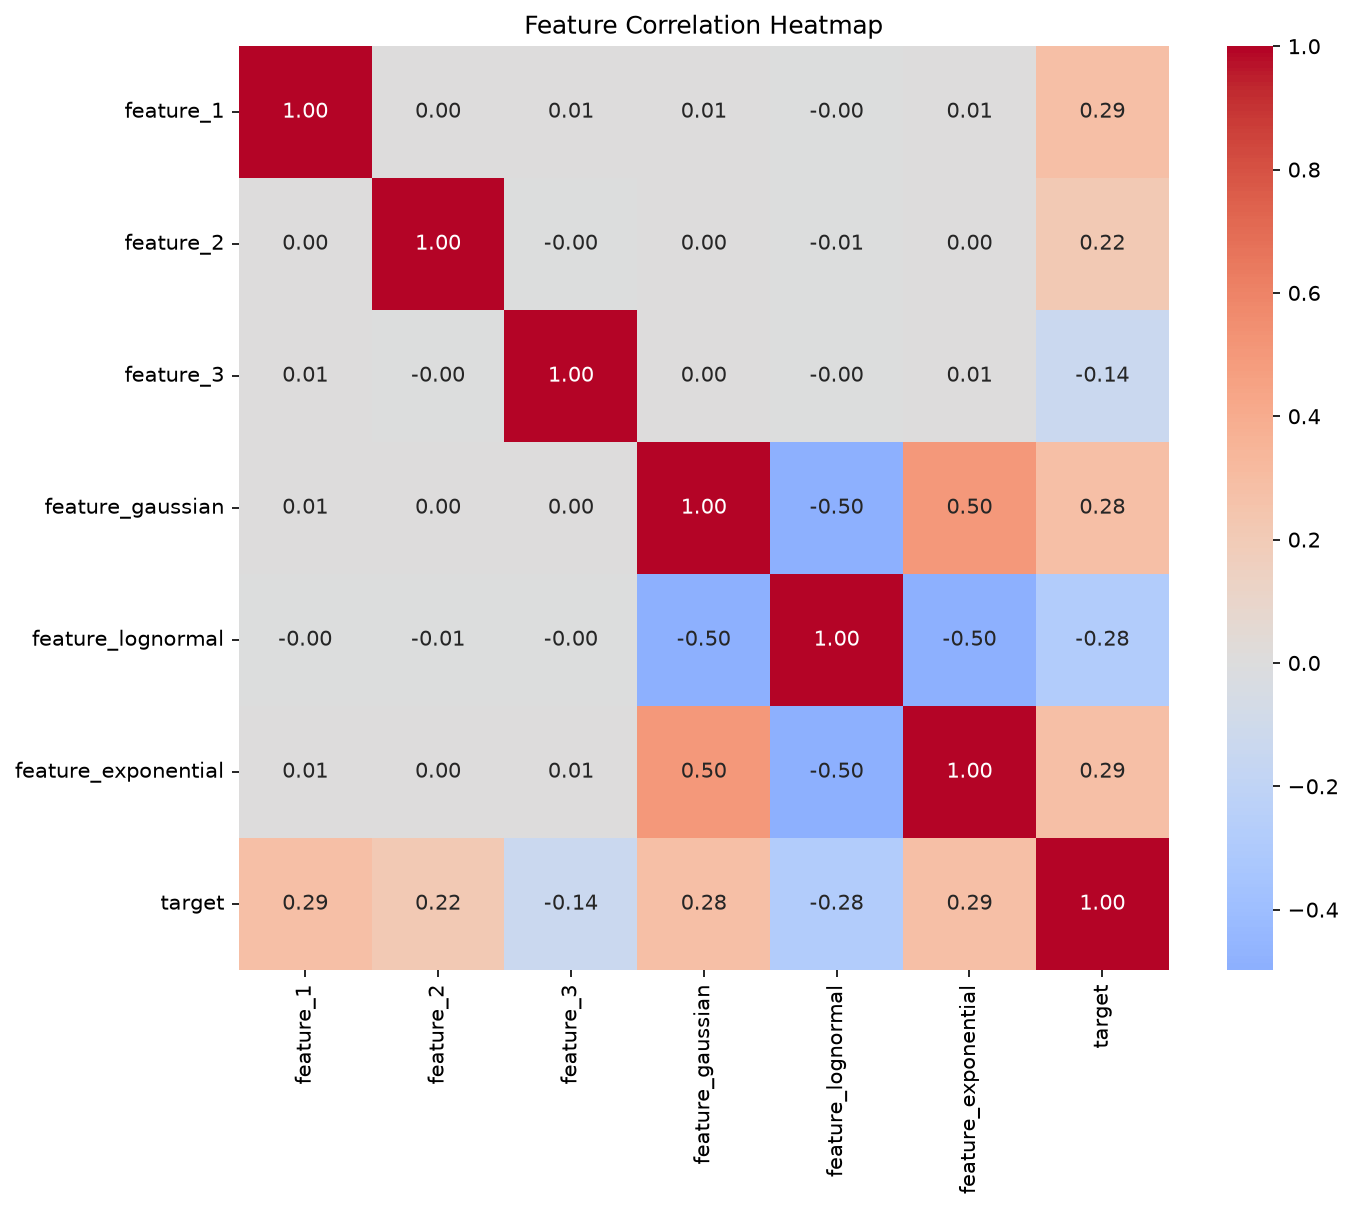
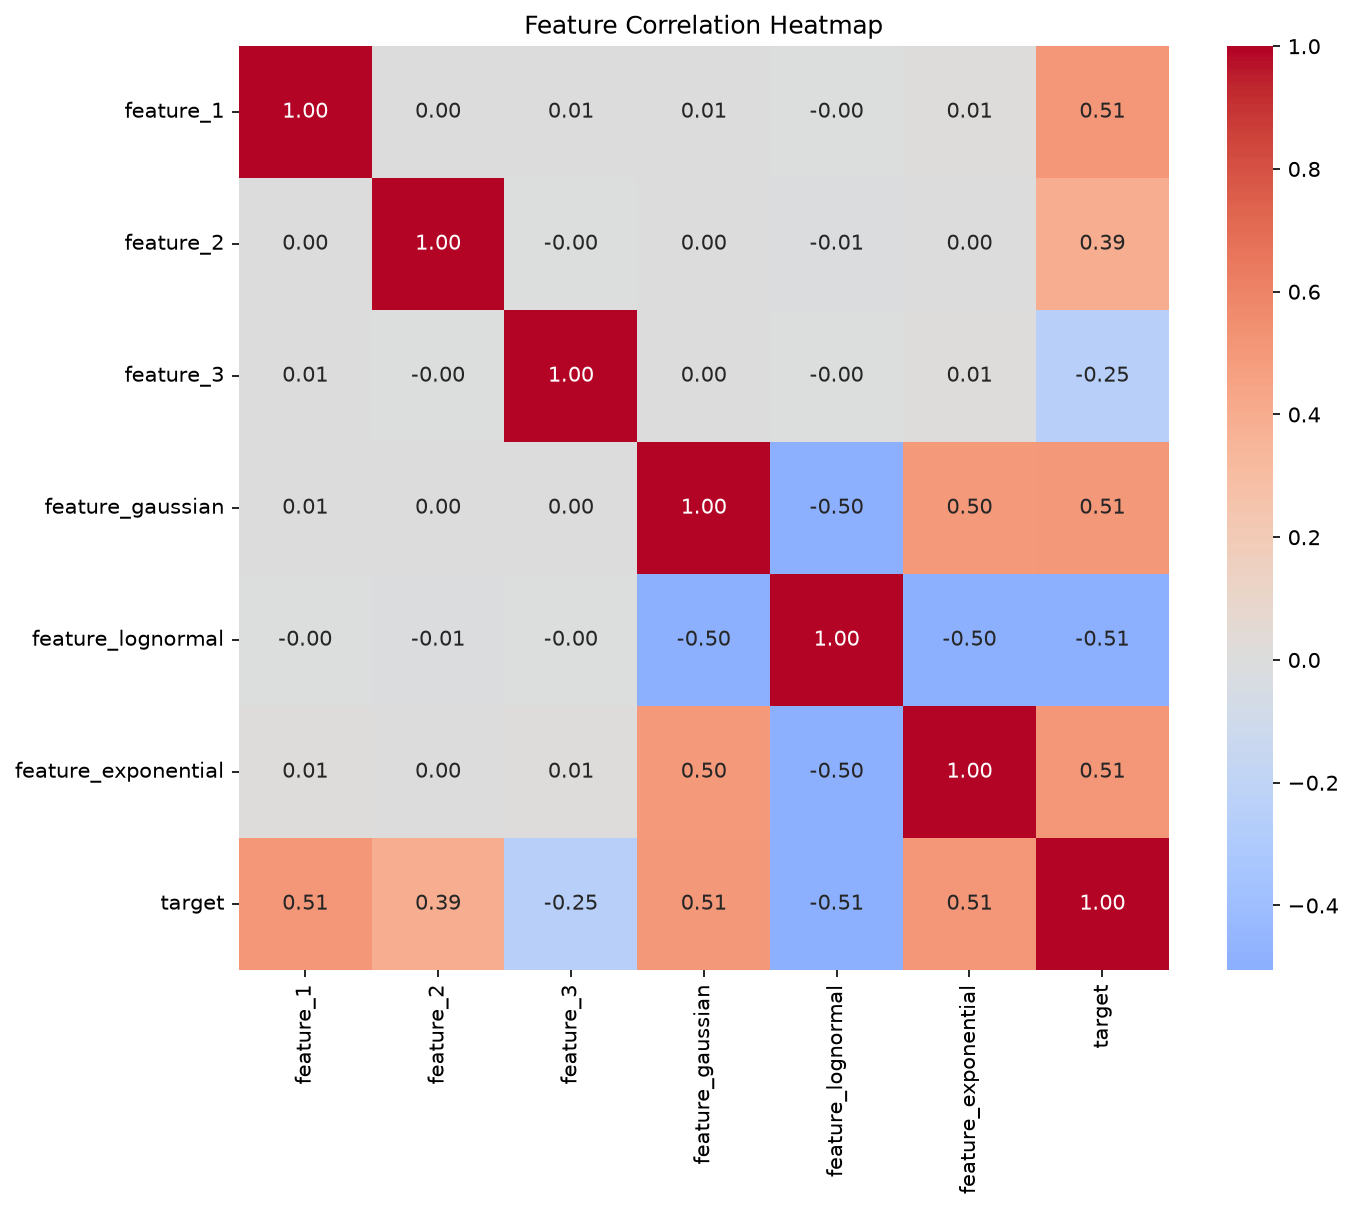
Alter data generating process

diff --git a/src/drift_detector/data/generate.py b/src/drift_detector/data/generate.py
@@ -89,7 +89,7 @@ def make_dataset(
 
     # non-linear relationships
     y += df["feature_1"] ** 2 * 0.5
-    y += 2.0 / df["feature_2"]
+    y += df["feature_2"] ** 3
 
     # === correlated noise features ===
     # Each feature shares a signal with y, plus independent noise,